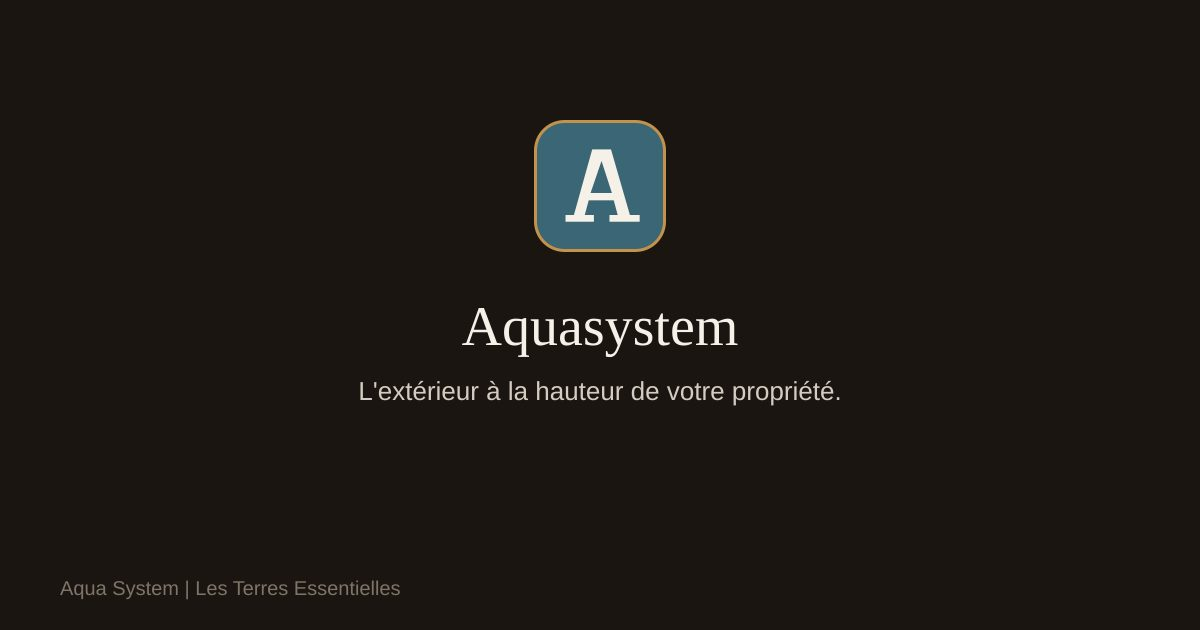
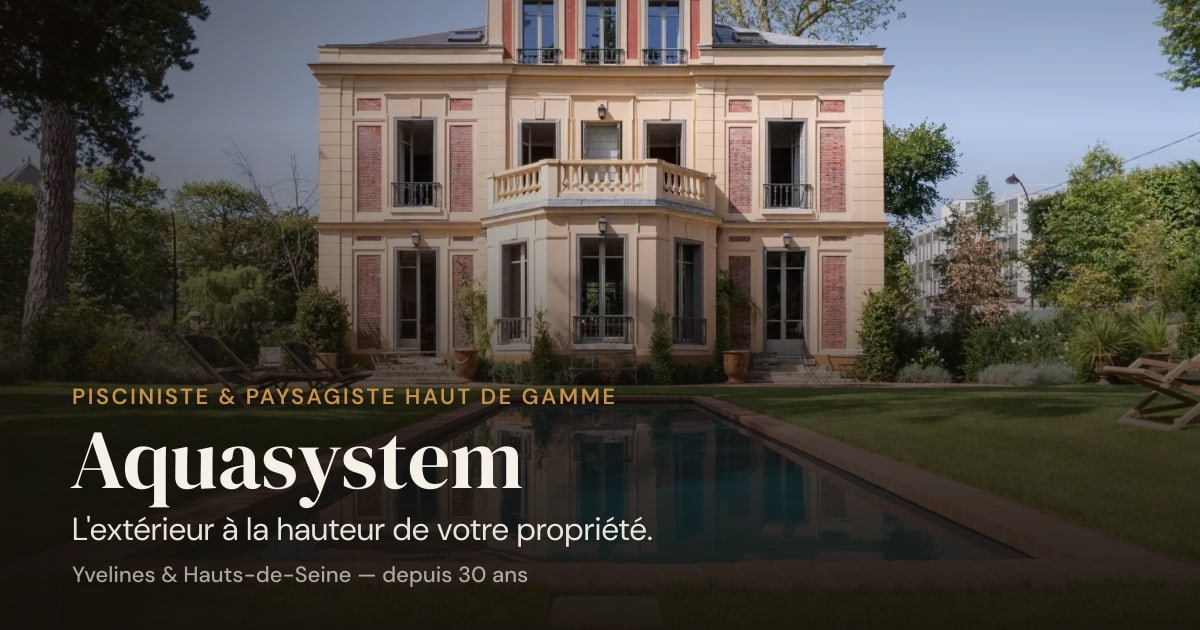
Image de partage social : photo hero premium + JPEG partout (D-45)
og-image.jpg : placeholder (fond uni + logo) remplacé par la photo hero
signature (demeure + bassin miroir) avec wordmark, tagline et ligne de
preuve dans les polices de marque. OG des articles/fiches basculés de
.webp (non rendu par iMessage/WhatsApp/LinkedIn) vers JPEG dédiés
(public/images/og/, helper ogPhoto). Script build-og-image.mjs réutilisable.

diff --git a/src/app/realisations/[slug]/page.tsx b/src/app/realisations/[slug]/page.tsx
@@ -3,7 +3,7 @@ import Image from 'next/image';
 import Link from 'next/link';
 import { notFound } from 'next/navigation';
 import { ArrowLeft, CheckCircle } from 'lucide-react';
-import { SITE_URL, absoluteUrl, breadcrumbJsonLd } from '@/lib/seo';
+import { SITE_URL, absoluteUrl, breadcrumbJsonLd, ogPhoto } from '@/lib/seo';
 import {
   REALISATIONS,
   getRealisation,
@@ -56,7 +56,8 @@ export function generateMetadata({
 }): Metadata {
   const r = getRealisation(params.slug);
   if (!r) return { title: 'Réalisation introuvable' };
-  const ogImg = absoluteUrl(photoSrc(r.photos[0]!.base, '1280w'));
+  // OG/Twitter en JPEG (ogPhoto) — aperçu de partage rendu par les messageries.
+  const ogImg = ogPhoto(r.photos[0]!.base);
   // Metas dynamiques — metadata-templates.md Page 9. Le <title> reste < 60 car.
   // (INFO-SEO-1) : titre COURT (sans suffixe de zone) + « | Réalisations » via
   // `absolute` (pas le template marque). Séparateur « | » (megalot §2.1). Le
@@ -72,7 +73,7 @@ export function generateMetadata({
     openGraph: {
       url: `${SITE_URL}/realisations/${r.slug}/`,
       title: r.title,
-      images: [{ url: ogImg, width: 1280, height: 720, alt: r.photos[0]!.alt }],
+      images: [{ url: ogImg, width: 1200, height: 630, alt: r.photos[0]!.alt }],
     },
     // P1-03 (audit-seo T3) : aligner twitter:image sur la photo de réalisation
     // (cohérence OG/Twitter) — sans override, le fallback layout pointait vers

diff --git a/src/app/notre-regard/[slug]/page.tsx b/src/app/notre-regard/[slug]/page.tsx
@@ -2,7 +2,13 @@ import type { Metadata } from 'next';
 import Link from 'next/link';
 import { notFound } from 'next/navigation';
 import { ArrowLeft } from 'lucide-react';
-import { SITE_URL, absoluteUrl, breadcrumbJsonLd, faqPageJsonLd } from '@/lib/seo';
+import {
+  SITE_URL,
+  absoluteUrl,
+  breadcrumbJsonLd,
+  faqPageJsonLd,
+  ogPhoto,
+} from '@/lib/seo';
 import { photoSrc } from '@/content/realisations';
 import {
   ARTICLES,
@@ -42,7 +48,9 @@ export function generateMetadata({
 }): Metadata {
   const article = getArticle(params.slug);
   if (!article) return { title: 'Article introuvable' };
-  const ogImg = absoluteUrl(photoSrc(article.heroBase, '1280w'));
+  // OG/Twitter en JPEG (ogPhoto) — les .webp ne s'affichent pas en aperçu de
+  // partage sur la plupart des messageries.
+  const ogImg = ogPhoto(article.heroBase);
   return {
     // metaTitle du manifeste (frontmatter) — séparateur « | » si suffixe,
     // jamais de cadratin. Posé en `absolute` (pas le template marque).
@@ -57,7 +65,7 @@ export function generateMetadata({
       publishedTime: article.datePublished,
       authors: ['Nicolas Berg'],
       images: [
-        { url: ogImg, width: 1280, height: 720, alt: article.heroAlt },
+        { url: ogImg, width: 1200, height: 630, alt: article.heroAlt },
       ],
     },
     twitter: { card: 'summary_large_image', images: [ogImg] },

diff --git a/src/lib/seo.ts b/src/lib/seo.ts
@@ -25,6 +25,16 @@ export function absoluteUrl(path: string): string {
 }
 
 /**
+ * URL absolue d'une image de partage social (og:image / twitter:image) au format
+ * JPEG 1200×630, dérivée d'un visuel de réalisation. Les `.webp` ne sont PAS
+ * rendus par la plupart des messageries (iMessage, WhatsApp, LinkedIn) — d'où un
+ * JPEG dédié, généré par scripts/build-og-image.mjs vers /images/og/<base>.jpg.
+ */
+export function ogPhoto(base: string): string {
+  return absoluteUrl(`/images/og/${base}.jpg`);
+}
+
+/**
  * Coordonnées géographiques de Freneuse (78840) — VÉRIFIÉ via cartesfrance.fr
  * (49.0482 N, 1.60076 E). Utilisé par le LocalBusiness Aqua System (signal
  * local fort pour le Knowledge Panel Bing/Google).

diff --git a/docs/dev-decisions.md b/docs/dev-decisions.md
@@ -830,3 +830,21 @@ Le hero spa-transats (D-40 cas B) REFUSÉ par le fondateur (« je trouve pas la 
 **Leçon outillage (P0 silencieux)** : un NBSP littéral collé dans un Write/heredoc peut être normalisé en espace par le canal — TOUJOURS écrire les insécables via échappements (` ` TS / ` ` python) et vérifier au NIVEAU OCTET (`C2 A0`) dans la sortie. Deux passes ont silencieusement échoué ainsi avant détection.
 
 **Vérifs** : tsc PASS · lint 0 warning · build PASS · vitest 119/119 · playwright 55/55.
+
+---
+
+## D-45 — Image de partage social (Open Graph) : photo hero + JPEG partout (2026-06-13)
+
+**Retour fondateur (urgent, répété)** : « quand je partage le lien c'est horrible ». Cause double :
+1. `public/og-image.jpg` était un PLACEHOLDER (fond uni + logo « A » + texte) — pauvre en aperçu de partage.
+2. Les og:image des articles et fiches pointaient vers des `.webp` (`photoSrc(... )`) — format NON rendu en aperçu par iMessage, WhatsApp, LinkedIn, Slack → vignette vide.
+
+**Fix** (`scripts/build-og-image.mjs`, réutilisable) :
+- **Carte de marque 1200×630** : photo hero signature (demeure ancienne + bassin miroir, fondateur-approved, 1920×1292 → bande basse top=110 montrant le reflet complet) + dégradé de lisibilité (vertical renforcé bas 0.95 + bias gauche) + wordmark « Aquasystem » (DM Serif Display 84px) + tagline + ligne preuve dorée + géo. Polices de marque installées (DM Serif Display + DM Sans, Google Fonts OFL). → `public/og-image.jpg` (~120 Ko). Sert toutes les pages statiques (accueil, services, réalisations, la-maison, prescripteurs, contact).
+- **OG photos par visuel** : JPEG 1200×630 (cover centre, q84 mozjpeg) pour les 33 visuels de réalisations → `public/images/og/<base>.jpg`. Helper `ogPhoto(base)` (lib/seo.ts). Les pages article (`/notre-regard/[slug]`) et fiche (`/realisations/[slug]`) émettent og:image + twitter:image en JPEG (largeur/hauteur 1200×630). Le hero on-page et le JSON-LD `image` restent en webp (perf interne, non concernés par l'aperçu social).
+
+**Casting hero OG (D-45)** : crop bas (top=110) retenu vs « north » (D-45 v1, demeure seule sans bassin) — le bassin miroir est la composition signature, il devait apparaître.
+
+**Caveat caching** : les messageries/réseaux CACHENT l'og:image (parfois plusieurs jours). Après déploiement, l'ancien aperçu peut persister → revalider via Facebook Sharing Debugger / LinkedIn Post Inspector (force un re-scrape), ou attendre l'expiration du cache. URL inchangée = certains caches ne se rafraîchissent pas seuls.
+
+**Vérifs** : tsc PASS · lint 0 warning · build PASS (og-image.jpg + images/og/ copiés dans out/). À VÉRIFIER post-naming final : régénérer le wordmark si la marque change (script paramétrable).
